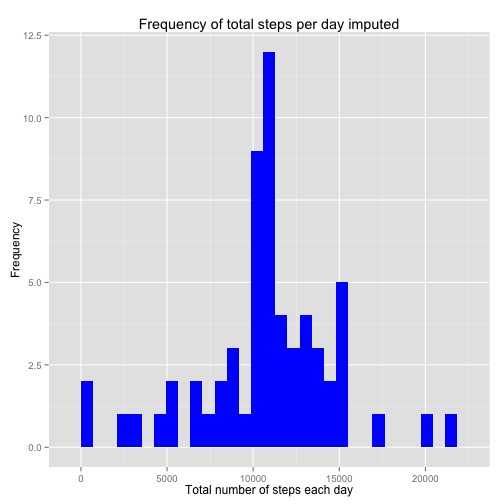
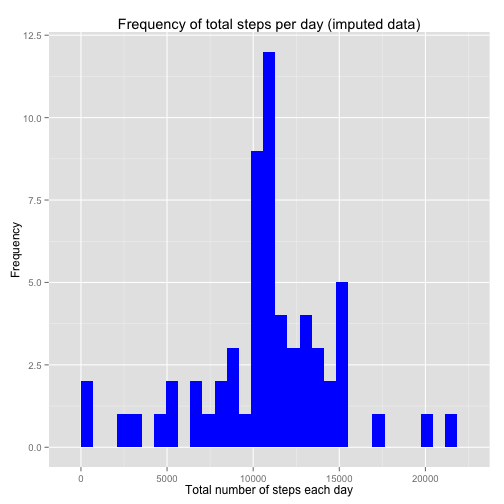
Better labels

Changed region(s): [[0.2381, 0.0298, 0.8333, 0.0595]]

diff --git a/PA1_template.html b/PA1_template.html
@@ -290,7 +290,7 @@ intervalMax &lt;- summary.stepsIntervalMax$interval
 
 <h3>Replace missing values</h3>
 
-<p>Missing values are replaced with the mean for that interval.</p>
+<p>Imputation strategy: The missing values are replaced with the <em>mean</em> for that interval.</p>
 
 <pre><code class="r">library(&#39;plyr&#39;)
 impute.mean &lt;- function(x) replace(x, is.na(x), mean(x, na.rm = TRUE))
@@ -298,7 +298,7 @@ data.impute &lt;- ddply(data.all, ~interval, transform, steps = impute.mean(step
 data.impute &lt;- data.impute [order(data.impute $date), ]
 </code></pre>
 
-<h3>Histogram of the total number of steps taken each day</h3>
+<h3>Histogram of the total number of steps taken each day (imputed data)</h3>
 
 <pre><code class="r">library(&#39;plyr&#39;)
 ## Create summary table with total number of steps each day from imputted data
@@ -309,7 +309,7 @@ summary.stepsDayImpute &lt;- ddply(data.impute, .(date), summarize, totalSteps =
 ## Plot summary data
 figure.stepsDayImpute &lt;- ggplot(summary.stepsDayImpute, aes(x = totalSteps)) + 
                    geom_histogram(fill=&quot;blue&quot;) + 
-                   ggtitle(&quot;Frequency of total steps per day imputed&quot;) +
+                   ggtitle(&quot;Frequency of total steps per day (imputed data)&quot;) +
                    xlab(&quot;Total number of steps each day&quot;) +
                    ylab(&quot;Frequency&quot;)
 
@@ -319,7 +319,7 @@ plot(figure.stepsDayImpute)
 <pre><code>## stat_bin: binwidth defaulted to range/30. Use &#39;binwidth = x&#39; to adjust this.
 </code></pre>
 
[2 lines of base64/hex data omitted]
 
 <h3>The mean and median total number of steps taken per day</h3>
 

diff --git a/PA1_template.md b/PA1_template.md
@@ -129,7 +129,7 @@ Total number of missing values in the dataset is: **2304**
 
 ### Replace missing values
 
-Missing values are replaced with the mean for that interval.
+Imputation strategy: The missing values are replaced with the *mean* for that interval.
 
 
 ```r
@@ -139,7 +139,7 @@ data.impute <- ddply(data.all, ~interval, transform, steps = impute.mean(steps))
 data.impute <- data.impute [order(data.impute $date), ]
 ```
 
-### Histogram of the total number of steps taken each day
+### Histogram of the total number of steps taken each day (imputed data)
 
 
 ```r
@@ -154,7 +154,7 @@ library('ggplot2')
 ## Plot summary data
 figure.stepsDayImpute <- ggplot(summary.stepsDayImpute, aes(x = totalSteps)) + 
                    geom_histogram(fill="blue") + 
-                   ggtitle("Frequency of total steps per day imputed") +
+                   ggtitle("Frequency of total steps per day (imputed data)") +
                    xlab("Total number of steps each day") +
                    ylab("Frequency")
 
